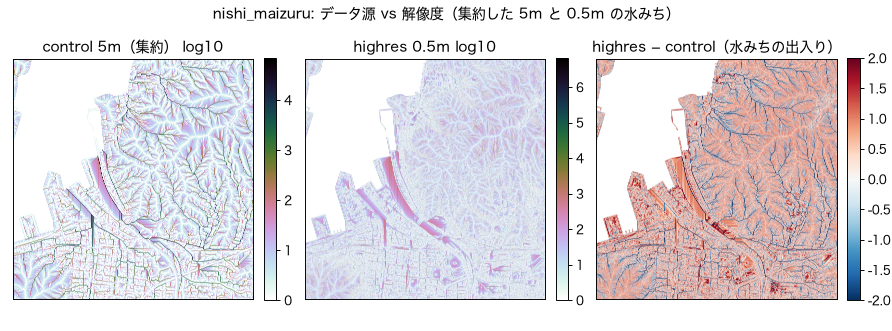
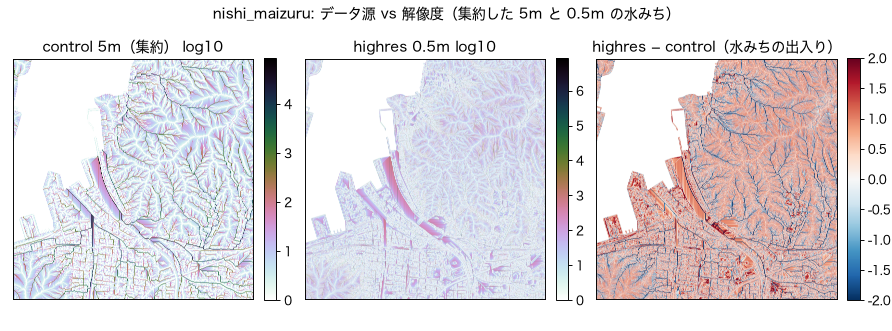
collar: 西舞鶴・東舞鶴の edge_truncated_fraction を埋める + 図を再生成
3 範囲すべてで collar 前→後を確認（`scripts/33`、窪地の数・面積・容積は不変）:

| 範囲 (ring) | baseline | control | highres |
|---|---|---|---|
| 吉原 (76 %)   | 45.2 → 29.3 | 34.8 → 17.6 | 60.2 → 9.3 |
| 西舞鶴 (82 %) | 43.7 → 4.3  | 15.3 → 4.4  | 18.2 → 4.5 |
| 東舞鶴 (81 %) | 8.8 → 2.1   | 7.8 → 2.0   | 12.4 → 3.3 |

広い 2 範囲は端のセル比率が低く、150 m collar で市街→湾の主要流路がほぼ捕まるので
数 % まで下がる。docs/images の nishi/higashi flow_accum 図（集水ベース）を再生成
（fill_depth ベースの pit_map は collar 非依存で不変）。

検証:
- `pytest tests/ -q` 34 passed
- `IWAGAKI_AOI=yoshiwara scripts/build_web.sh` → `scripts/84` checked 96 tiles, 0 failures
  （flow タイルは collar 対応の accum で再生成、accum_max も更新）

Claude-Session: https://claude.ai/code/session_01YCJeGZ5Bf1MGwQ9X6TAEzq

diff --git a/docs/results.md b/docs/results.md
@@ -725,21 +725,25 @@ pointcloud の最大充填深 **8.53 m** は、融合地形（`scripts/19`）に
 
 点群の無い 2 範囲（`baseline` / `control` / `highres` の 3 条件）。
 
-| 範囲 | 条件 | 窪地数 | 窪地面積 | 最大充填深 | 総充填容積 | 端で切れた集水 |
+「端で切れた集水」は collar 前 → 後（`docs/data.md` §7）。窪地の数・面積・容積は
+collar を入れても不変。
+
+| 範囲 | 条件 | 窪地数 | 窪地面積 | 最大充填深 | 総充填容積 | 端で切れた集水（前→後） |
 |---|---|---:|---:|---:|---:|---:|
-| 西舞鶴 | baseline | 895 | **54.60 ha** | 2.19 m | **114,899 m³** | 43.7 % |
-| 西舞鶴 | control | 1,545 | 31.89 ha | 2.65 m | 45,371 m³ | 15.3 % |
-| 西舞鶴 | highres | 48,846 | 30.18 ha | 3.60 m | 61,486 m³ | 18.2 % |
-| 東舞鶴 | baseline | 1,491 | **76.69 ha** | 13.54 m | **498,204 m³** | 8.8 % |
-| 東舞鶴 | control | 2,346 | 51.53 ha | 3.72 m | 106,047 m³ | 7.8 % |
-| 東舞鶴 | highres | 76,202 | 52.94 ha | 5.30 m | 142,300 m³ | 12.4 % |
+| 西舞鶴 | baseline | 895 | **54.60 ha** | 2.19 m | **114,899 m³** | 43.7 % → 4.3 % |
+| 西舞鶴 | control | 1,545 | 31.89 ha | 2.65 m | 45,371 m³ | 15.3 % → 4.4 % |
+| 西舞鶴 | highres | 48,846 | 30.18 ha | 3.60 m | 61,486 m³ | 18.2 % → 4.5 % |
+| 東舞鶴 | baseline | 1,491 | **76.69 ha** | 13.54 m | **498,204 m³** | 8.8 % → 2.1 % |
+| 東舞鶴 | control | 2,346 | 51.53 ha | 3.72 m | 106,047 m³ | 7.8 % → 2.0 % |
+| 東舞鶴 | highres | 76,202 | 52.94 ha | 5.30 m | 142,300 m³ | 12.4 % → 3.3 % |
 
 baseline がデータ源で突出（西舞鶴で面積 1.7 倍・容積 2.5 倍、東舞鶴で 1.5 倍・4.7 倍）、
 control ↔ highres は面積が近く数だけ増える、という並びは 3 範囲すべてで同じ。
 **東舞鶴 baseline の最大充填深 13.5 m** は PLATEAU 5m TIN に生じた大きな閉じた窪地で、
 市街が護岸天端に囲まれた低地であること（`docs/results.md`「連結しない窪地が
 どれだけあるか」）の地形単独での現れ。東舞鶴は湾に大きく開いているので、
-`edge_truncated` は 3 範囲で最も低い（8〜12 %）。
+collar 前の `edge_truncated` が 3 範囲で最も低かった（8〜12 %）。collar 後は
+西舞鶴と同じく数 % に下がる。
 
 ### 限界
 

diff --git a/docs/data.md b/docs/data.md
@@ -756,16 +756,17 @@ D8 を回し、集計・書き出しは元の AOI 矩形に clip する（`src/i
 **collar 後の `edge_truncated_fraction` の変化**（`edge_truncated_fraction_no_collar`
 → `edge_truncated_fraction`、`flow_accum_summary.json`）:
 
-| 範囲 | baseline | control | highres | pointcloud |
+| 範囲（collar ring） | baseline | control | highres | pointcloud |
 |---|---|---|---|---|
-| 吉原（collar ring 76 %） | 45.2 % → **29.3 %** | 34.8 % → **17.6 %** | 60.2 % → **9.3 %** | 61.1 % → **9.3 %** |
-| 西舞鶴 | 43.7 % → TBD | 15.3 % → TBD | 18.2 % → TBD | — |
-| 東舞鶴 | 8.8 % → TBD | 7.8 % → TBD | 12.4 % → TBD | — |
+| 吉原（76 %） | 45.2 % → **29.3 %** | 34.8 % → **17.6 %** | 60.2 % → **9.3 %** | 61.1 % → **9.3 %** |
+| 西舞鶴（82 %） | 43.7 % → **4.3 %** | 15.3 % → **4.4 %** | 18.2 % → **4.5 %** | — |
+| 東舞鶴（81 %） | 8.8 % → **2.1 %** | 7.8 % → **2.0 %** | 12.4 % → **3.3 %** | — |
 
-0.5 m 条件で下げ幅が大きいのは、狭い AOI（吉原 100 ha）ほど端のセルの比率が高く、
-かつ 0.5 m は線状の集水が矩形の外へ素直に伸びるため。collar 内の窪地や海（nodata）
-で終わる経路が「切れていない」に変わる。残る `edge_truncated` は collar の外周まで
-達する本当に長い経路（山側の谷筋など）。
+広い 2 範囲（西舞鶴 625 ha / 東舞鶴 1,000 ha）は端のセルの比率が低いうえ、150 m の
+collar で市街から湾へ抜ける主要な流路がほぼ捕まるので **2〜5 % まで下がる**。
+吉原（100 ha）は狭くて端のセルが多く、山側の谷筋が矩形をまたいで長く伸びるため
+baseline / control では下げ幅が小さい（0.5 m 条件は線状の集水が collar 内の窪地・海で
+終わるので大きく下がる）。残る `edge_truncated` は collar の外周まで達する本当に長い経路。
 
 ### viewer への配信（第 2 段）**[実測]**（2026-09-01）
 
